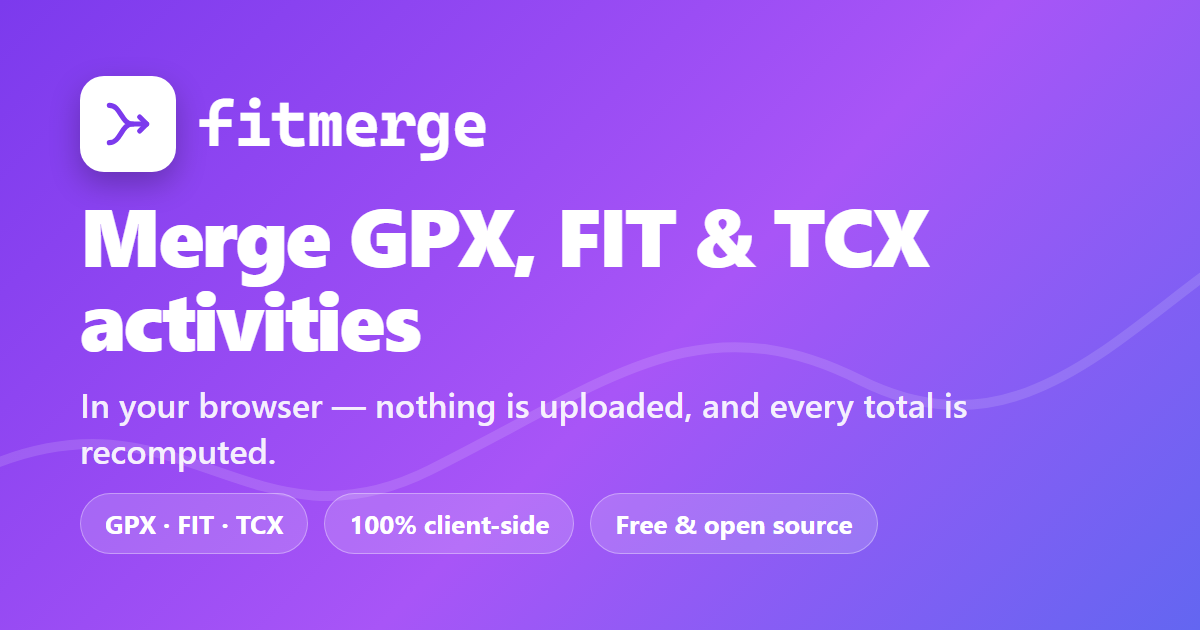
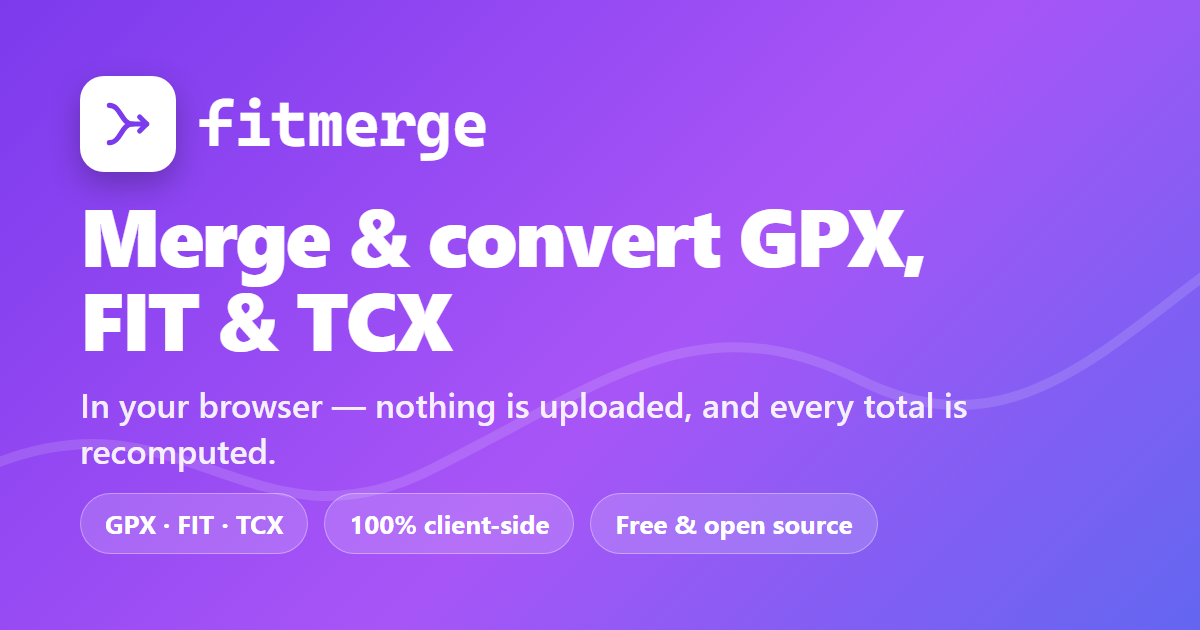
Add a Merge / Convert mode to the web UI
Convert is the single-file case of the same engine (decode -> recompute ->
encode), so it needs no engine changes — just a mode switch that takes one
file, hides the merge-only options (input order, time-overlap), relabels the
action ("Convert to GPX/FIT/TCX"), and names the download after the source
(ride.fit -> ride.gpx). This captures the high-volume "convert FIT to GPX /
GPX to FIT / TCX" use case with the same privacy story.

Copy, FAQ, structured data, title/description/OG and the social card are
updated to surface conversion for search.

Verified with Playwright: mode toggle + single-file convert (FIT->GPX) work,
the merge flow is unaffected (11/11), and SEO checks stay green (13/13).

Changed region(s): [[0.2775, 0.3317, 0.7708, 0.4524], [0.0617, 0.4524, 0.37, 0.573]]

diff --git a/web/index.html b/web/index.html
@@ -5,23 +5,23 @@
   <meta name="viewport" content="width=device-width, initial-scale=1">
   <meta name="theme-color" content="#7c3aed">
   <link rel="icon" type="image/svg+xml" href="favicon.svg">
-  <title>fitmerge — merge GPX, FIT &amp; TCX activities in your browser</title>
-  <meta name="description" content="Merge GPX, FIT and TCX activity files into one — free, private, and entirely in your browser. Distance, ascent, moving time and speed are recomputed from the combined track.">
+  <title>fitmerge — merge &amp; convert GPX, FIT &amp; TCX activities in your browser</title>
+  <meta name="description" content="Merge GPX, FIT and TCX activity files into one, or convert between them (FIT to GPX, GPX to FIT, TCX…) — free, private, and entirely in your browser. Every total is recomputed from the track.">
   <link rel="canonical" href="https://darinkes.github.io/fit-merger/">
 
   <!-- Open Graph / Twitter link previews (Reddit, Slack, Discord, forums, …) -->
   <meta property="og:type" content="website">
   <meta property="og:site_name" content="fitmerge">
-  <meta property="og:title" content="fitmerge — merge GPX, FIT &amp; TCX activities in your browser">
-  <meta property="og:description" content="Free, private, in-browser merger for GPX, FIT and TCX files. Every total is recomputed from the combined track — your files never leave the page.">
+  <meta property="og:title" content="fitmerge — merge &amp; convert GPX, FIT &amp; TCX activities in your browser">
+  <meta property="og:description" content="Free, private, in-browser tool to merge GPX, FIT and TCX files — or convert between them. Every total is recomputed from the track, and your files never leave the page.">
   <meta property="og:url" content="https://darinkes.github.io/fit-merger/">
   <meta property="og:image" content="https://darinkes.github.io/fit-merger/og-image.png">
   <meta property="og:image:width" content="1200">
   <meta property="og:image:height" content="630">
-  <meta property="og:image:alt" content="fitmerge — merge GPX, FIT & TCX activities in your browser">
+  <meta property="og:image:alt" content="fitmerge — merge & convert GPX, FIT & TCX activities in your browser">
   <meta name="twitter:card" content="summary_large_image">
-  <meta name="twitter:title" content="fitmerge — merge GPX, FIT &amp; TCX activities in your browser">
-  <meta name="twitter:description" content="Free, private, in-browser merger for GPX, FIT and TCX files. Every total is recomputed from the combined track — your files never leave the page.">
+  <meta name="twitter:title" content="fitmerge — merge &amp; convert GPX, FIT &amp; TCX activities in your browser">
+  <meta name="twitter:description" content="Free, private, in-browser tool to merge GPX, FIT and TCX files — or convert between them. Every total is recomputed from the track, and your files never leave the page.">
   <meta name="twitter:image" content="https://darinkes.github.io/fit-merger/og-image.png">
 
   <!-- Structured data: helps Google understand the app and show rich results. -->
@@ -31,7 +31,7 @@
     "@type": "WebApplication",
     "name": "fitmerge",
     "url": "https://darinkes.github.io/fit-merger/",
-    "description": "Merge two or more GPX, FIT or TCX activity files into a single GPX, FIT or TCX file, entirely in your browser. Every summary figure is recomputed from the combined track.",
+    "description": "Merge two or more GPX, FIT or TCX activity files into one — or convert a single file between those formats — entirely in your browser. Every summary figure is recomputed from the track.",
     "applicationCategory": "UtilitiesApplication",
     "operatingSystem": "Any (web browser with WebAssembly)",
     "browserRequirements": "Requires WebAssembly",
@@ -52,6 +52,8 @@
         "acceptedAnswer": { "@type": "Answer", "text": "Drop two or more .gpx, .fit or .tcx files onto the page, choose GPX, FIT or TCX output, then click Merge activities to download the combined file." } },
       { "@type": "Question", "name": "Can I mix GPX, FIT and TCX files?",
         "acceptedAnswer": { "@type": "Answer", "text": "Yes. You can combine any mix of GPX, FIT and TCX inputs and export the result as GPX, FIT or TCX." } },
+      { "@type": "Question", "name": "Can I convert one file to another format (FIT to GPX, GPX to FIT)?",
+        "acceptedAnswer": { "@type": "Answer", "text": "Yes. Switch to Convert mode, drop a single GPX, FIT or TCX file, pick the output format, and download the converted file — entirely in your browser." } },
       { "@type": "Question", "name": "Does it recompute distance, elevation and time?",
         "acceptedAnswer": { "@type": "Answer", "text": "Yes. Distance, ascent and descent, moving and elapsed time, and average and maximum speed are all recomputed from the merged points rather than copied from the source files." } },
       { "@type": "Question", "name": "Will the merged file work in Strava and Garmin Connect?",
@@ -385,8 +387,8 @@
       </button>
     </header>
 
-    <p class="lede">Merge two or more activities into one — distance, ascent, moving time and
-      speed are recomputed from the combined track.</p>
+    <p class="lede">Merge two or more activities into one, or convert a single file between GPX, FIT
+      and TCX — distance, ascent, moving time and speed are recomputed from the track.</p>
     <span class="privacy">
       <svg viewBox="0 0 24 24" fill="none" stroke="currentColor" stroke-width="2" stroke-linecap="round" stroke-linejoin="round" aria-hidden="true">
         <rect x="4" y="11" width="16" height="9" rx="2"/><path d="M8 11V7a4 4 0 0 1 8 0v4"/>
@@ -396,14 +398,21 @@
 
     <div class="card">
       <div class="field">
-        <label for="files">Activity files
-          <span class="hint">— pick 2+ <code>.gpx</code>/<code>.fit</code>/<code>.tcx</code> files (any mix)</span>
+        <div class="segmented" id="mode" role="group" aria-label="Mode">
+          <button type="button" data-mode="merge" aria-pressed="true">Merge</button>
+          <button type="button" data-mode="convert" aria-pressed="false">Convert</button>
+        </div>
+      </div>
+
+      <div class="field">
+        <label for="files"><span id="filesLabel">Activity files</span>
+          <span class="hint" id="filesHint">— pick 2+ <code>.gpx</code>/<code>.fit</code>/<code>.tcx</code> files (any mix)</span>
         </label>
         <label class="dropzone" id="drop" for="files">
           <svg viewBox="0 0 24 24" fill="none" stroke="currentColor" stroke-width="2" stroke-linecap="round" stroke-linejoin="round" aria-hidden="true">
             <path d="M12 16V4M8 8l4-4 4 4"/><path d="M4 16v2a2 2 0 0 0 2 2h12a2 2 0 0 0 2-2v-2"/>
           </svg>
-          <span><strong>Drop files here</strong> or click to browse</span>
+          <span id="dropText"><strong>Drop files here</strong> or click to browse</span>
           <input id="files" type="file" accept=".gpx,.fit,.tcx" multiple>
         </label>
         <div id="filelist"></div>
@@ -419,7 +428,7 @@
       </div>
 
       <div class="field grid">
-        <div>
+        <div id="overlapField">
           <label for="overlap">Time overlap</label>
           <select id="overlap">
             <option value="error" selected>Error (safest)</option>
@@ -441,7 +450,7 @@
         </div>
       </div>
 
-      <div class="field row"><input id="sort" type="checkbox" checked><label for="sort">Order inputs by start time</label></div>
+      <div class="field row" id="sortField"><input id="sort" type="checkbox" checked><label for="sort">Order inputs by start time</label></div>
       <div class="field row"><input id="use3d" type="checkbox"><label for="use3d">Include elevation in distance (3D)</label></div>
 
       <button id="merge" class="primary" disabled>Loading…</button>
@@ -453,7 +462,7 @@
 
       <div class="viz hidden" id="viz">
         <figure class="viz-panel" id="mapPanel">
-          <figcaption>Merged route
+          <figcaption>Route
             <span class="segmented sm" id="basemap" role="group" aria-label="Basemap">
               <button type="button" data-base="plain" aria-pressed="true">Plain</button>
               <button type="button" data-base="osm" aria-pressed="false">OpenStreetMap</button>
@@ -480,7 +489,7 @@
         </figure>
       </div>
 
-      <label>Merged summary</label>
+      <label>Summary</label>
       <div class="table-wrap">
         <table id="summary">
           <thead>
@@ -513,6 +522,10 @@
       <details>
         <summary>Can I mix GPX, FIT and TCX files?</summary>
         <p>Yes. You can combine any mix of GPX, FIT and TCX inputs and export the result as GPX, FIT or TCX.</p>
+      </details>
+      <details>
+        <summary>Can I convert one file to another format (FIT to GPX, GPX to FIT, …)?</summary>
+        <p>Yes. Switch to <strong>Convert</strong> mode, drop a single <code>.gpx</code>, <code>.fit</code> or <code>.tcx</code> file, pick the output format, and download the converted file — entirely in your browser.</p>
       </details>
       <details>
         <summary>Does it recompute distance, elevation and time?</summary>
@@ -557,6 +570,7 @@
         outputFormat = b.dataset.fmt;
         $("format").querySelectorAll("button").forEach((x) =>
           x.setAttribute("aria-pressed", x === b));
+        updateActionLabel();
       });
     });
 
@@ -609,6 +623,49 @@
       statusEl.textContent = msg || "";
       statusEl.className = kind || "";
     }
+
+    // --- Merge / Convert mode -----------------------------------------
+    // Convert is the single-file case of the same engine (decode -> recompute ->
+    // encode), so it reuses everything except: one input instead of many, and the
+    // merge-only options (input order, time-overlap) are hidden.
+    let mode = "merge";
+    try { const m = localStorage.getItem("fitmerge-mode"); if (m === "merge" || m === "convert") mode = m; } catch (e) {}
+
+    function updateActionLabel() {
+      if (mergeBtn.disabled && mergeBtn.textContent === "Loading…") return; // wasm not ready yet
+      mergeBtn.textContent = mode === "convert" ? "Convert to " + outputFormat.toUpperCase() : "Merge activities";
+    }
+
+    function syncMode() {
+      const convert = mode === "convert";
+      $("mode").querySelectorAll("button").forEach((b) => b.setAttribute("aria-pressed", b.dataset.mode === mode));
+      filesInput.multiple = !convert;
+      $("filesLabel").textContent = convert ? "Activity file" : "Activity files";
+      $("filesHint").innerHTML = convert
+        ? "— pick one <code>.gpx</code>/<code>.fit</code>/<code>.tcx</code> file to reformat"
+        : "— pick 2+ <code>.gpx</code>/<code>.fit</code>/<code>.tcx</code> files (any mix)";
+      $("dropText").innerHTML = convert
+        ? "<strong>Drop a file here</strong> or click to browse"
+        : "<strong>Drop files here</strong> or click to browse";
+      $("overlapField").classList.toggle("hidden", convert);
+      $("sortField").classList.toggle("hidden", convert);
+      updateActionLabel();
+    }
+
+    $("mode").querySelectorAll("button").forEach((b) => {
+      b.addEventListener("click", () => {
+        if (b.dataset.mode === mode) return;
+        mode = b.dataset.mode;
+        try { localStorage.setItem("fitmerge-mode", mode); } catch (e) {}
+        // Start fresh: a multi-file merge selection isn't a valid convert input.
+        filesInput.value = "";
+        renderFileList();
+        $("result").classList.add("hidden");
+        setStatus("");
+        syncMode();
+      });
+    });
+    syncMode();
 
     // --- formatting helpers -------------------------------------------
     const fmtDur = (s) => {
@@ -1169,11 +1226,13 @@
     }
 
     async function doMerge() {
-      const files = [...filesInput.files];
-      if (files.length === 0) { setStatus("Pick at least one file.", "err"); return; }
+      const convert = mode === "convert";
+      let files = [...filesInput.files];
+      if (files.length === 0) { setStatus(convert ? "Pick a file to convert." : "Pick at least one file.", "err"); return; }
+      if (convert) files = files.slice(0, 1); // convert is one file in, one out
 
       mergeBtn.disabled = true;
-      setStatus("Merging…");
+      setStatus(convert ? "Converting…" : "Merging…");
       try {
         const inputs = await Promise.all(files.map(async (f) => ({
           name: f.name,
@@ -1190,7 +1249,16 @@
         });
         if (!res.ok) { setStatus(res.error, "err"); return; }
         renderResult(res);
-        setStatus(`Merged ${files.length} file(s) → ${res.summary.records} records.`, "ok");
+        if (convert) {
+          // Name the converted file after its source (ride.fit -> ride.gpx).
+          const nice = files[0].name.replace(/\.[^.]+$/, "") + "." + outputFormat;
+          const dl = $("download");
+          dl.download = nice;
+          dl.querySelector("span").textContent = "Download " + nice;
+        }
+        setStatus(convert
+          ? `Converted ${files[0].name} → ${outputFormat.toUpperCase()} (${res.summary.records} records).`
+          : `Merged ${files.length} file(s) → ${res.summary.records} records.`, "ok");
       } catch (e) {
         setStatus("Error: " + e.message, "err");
       } finally {
@@ -1202,7 +1270,7 @@
     window.onFitmergeReady = () => {
       document.body.classList.remove("loading");
       mergeBtn.disabled = false;
-      mergeBtn.textContent = "Merge activities";
+      updateActionLabel();
       $("version").textContent = "fitmerge " + fitmerge.version;
       setStatus("Ready.");
     };

diff --git a/README.md b/README.md
@@ -6,7 +6,9 @@ ascent/descent, moving time, elapsed time, average/max speed, heart rate — so 
 merged file's totals faithfully describe the combined track.
 
 Typical use: stitching a multi-part or multi-day activity (a ride split across
-several files, a tour recorded day by day) back into one file.
+several files, a tour recorded day by day) back into one file. Give it a single
+input to simply **convert** between formats (e.g. FIT → GPX); the summaries are
+recomputed either way. The browser UI exposes this as a Merge / Convert switch.
 
 **🌐 Try it in your browser (no install): <https://darinkes.github.io/fit-merger/>**
 — the same engine compiled to WebAssembly; your files never leave the page.